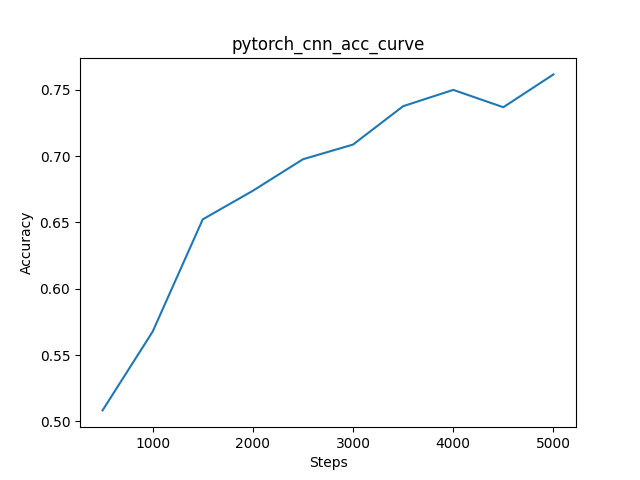
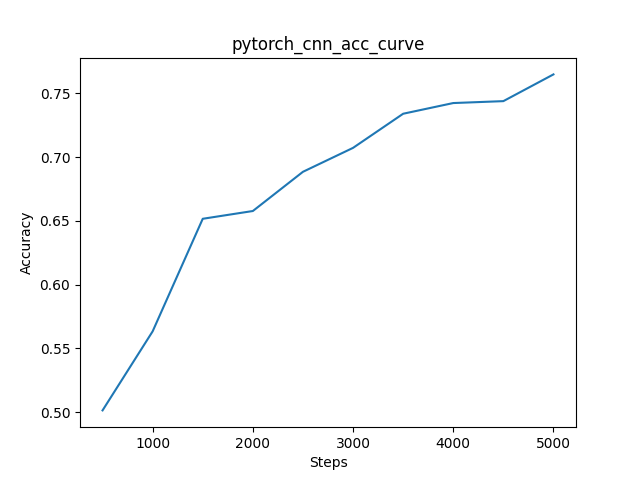
change cnn last layer

diff --git a/1mlp_cnn/convnet_pytorch.py b/1mlp_cnn/convnet_pytorch.py
@@ -45,56 +45,58 @@ class ConvNet(nn.Module):
           nn.Conv2d(64, 64, 3, 1, 1)
         )
 
-        self.PreAct_2_a = nn.Sequential(
+        self.PreAct_2 = nn.Sequential(
           nn.BatchNorm2d(128),
           nn.ReLU(),
           nn.Conv2d(128, 128, 3, 1, 1)
         )
 
-        self.PreAct_2_b = nn.Sequential(
-          nn.BatchNorm2d(128),
-          nn.ReLU(),
-          nn.Conv2d(128, 128, 3, 1, 1)
-        )
+        # self.PreAct_2_b = nn.Sequential(
+        #   nn.BatchNorm2d(128),
+        #   nn.ReLU(),
+        #   nn.Conv2d(128, 128, 3, 1, 1)
+        # )
 
-        self.PreAct_3_a = nn.Sequential(
+        self.PreAct_3 = nn.Sequential(
           nn.BatchNorm2d(256),
           nn.ReLU(),
           nn.Conv2d(256, 256, 3, 1, 1)
         )
 
-        self.PreAct_3_b = nn.Sequential(
-          nn.BatchNorm2d(256),
-          nn.ReLU(),
-          nn.Conv2d(256, 256, 3, 1, 1)
-        )
+        # self.PreAct_3_b = nn.Sequential(
+        #   nn.BatchNorm2d(256),
+        #   nn.ReLU(),
+        #   nn.Conv2d(256, 256, 3, 1, 1)
+        # )
 
-        self.PreAct_4_a = nn.Sequential(
+        self.PreAct_4 = nn.Sequential(
           nn.BatchNorm2d(512),
           nn.ReLU(),
           nn.Conv2d(512, 512, 3, 1, 1)
         )
 
-        self.PreAct_4_b = nn.Sequential(
+        # self.PreAct_4_b = nn.Sequential(
+        #   nn.BatchNorm2d(512),
+        #   nn.ReLU(),
+        #   nn.Conv2d(512, 512, 3, 1, 1)
+        # )
+
+        self.PreAct_5 = nn.Sequential(
           nn.BatchNorm2d(512),
           nn.ReLU(),
           nn.Conv2d(512, 512, 3, 1, 1)
         )
 
-        self.PreAct_5_a = nn.Sequential(
-          nn.BatchNorm2d(512),
-          nn.ReLU(),
-          nn.Conv2d(512, 512, 3, 1, 1)
-        )
-
-        self.PreAct_5_b = nn.Sequential(
-          nn.BatchNorm2d(512),
-          nn.ReLU(),
-          nn.Conv2d(512, 512, 3, 1, 1)
-        )
+        # self.PreAct_5_b = nn.Sequential(
+        #   nn.BatchNorm2d(512),
+        #   nn.ReLU(),
+        #   nn.Conv2d(512, 512, 3, 1, 1)
+        # )
 
         self.maxpool = nn.MaxPool2d(3, 2, 1)
+        
         self.linear = nn.Linear(512, n_classes)
+          
         ########################
         # END OF YOUR CODE    #
         #######################
@@ -121,23 +123,24 @@ class ConvNet(nn.Module):
         z_1 = out_0 + self.PreAct_1(out_0)
         out_1 = self.maxpool(self.conv_1(z_1))
         
-        z_2_a = out_1 + self.PreAct_2_a(out_1)
-        z_2_b = z_2_a + self.PreAct_2_b(z_2_a)
+        z_2_a = out_1 + self.PreAct_2(out_1)
+        z_2_b = z_2_a + self.PreAct_2(z_2_a)
         out_2 = self.maxpool(self.conv_2(z_2_b))
 
-        z_3_a = out_2 + self.PreAct_3_a(out_2)
-        z_3_b = z_3_a + self.PreAct_3_b(z_3_a)
+        z_3_a = out_2 + self.PreAct_3(out_2)
+        z_3_b = z_3_a + self.PreAct_3(z_3_a)
         out_3 = self.maxpool(self.conv_3(z_3_b))
 
-        z_4_a = out_3 + self.PreAct_4_a(out_3)
-        z_4_b = z_4_a + self.PreAct_4_b(z_4_a)
+        z_4_a = out_3 + self.PreAct_4(out_3)
+        z_4_b = z_4_a + self.PreAct_4(z_4_a)
         out_4 = self.maxpool(z_4_b)
 
-        z_5_a = out_4 + self.PreAct_5_a(out_4)
-        z_5_b = z_5_a + self.PreAct_5_b(z_5_a)
+        z_5_a = out_4 + self.PreAct_5(out_4)
+        z_5_b = z_5_a + self.PreAct_5(z_5_a)
         out_5 = self.maxpool(z_5_b)
-
-        out_5 = out_5.view(-1, 512)
+        
+        out_5 = nn.ReLU(nn.BatchNorm2d(512))
+        # out_5 = out_5.view(-1, 512)
         out = self.linear(out_5)
 
         ########################

diff --git a/1mlp_cnn/train_convnet_pytorch.py b/1mlp_cnn/train_convnet_pytorch.py
@@ -31,7 +31,6 @@ DATA_DIR_DEFAULT = './cifar10/cifar-10-batches-py'
 
 FLAGS = None
 
-device = torch.device("cuda:0") if torch.cuda.is_available() else torch.device("cpu")
 
 def accuracy(predictions, targets):
     """
@@ -82,7 +81,12 @@ def train():
     ########################
     # PUT YOUR CODE HERE  #
     #######################
+    device = torch.device("cuda:0") if torch.cuda.is_available() else torch.device("cpu")
+    torch.backends.cudnn.determinstic = True
+    torch.backends.cudnn.benchmark = False
+
     # load data
+    torch.backends
     cifar10 = cifar10_utils.get_cifar10(FLAGS.data_dir)
     train_x, train_y = cifar10['train'].next_batch(batch_size= FLAGS.batch_size)
     train_x = torch.from_numpy(train_x).to(device)

diff --git a/1mlp_cnn/mlp_pytorch.py b/1mlp_cnn/mlp_pytorch.py
@@ -46,7 +46,7 @@ class MLP(nn.Module):
           input_size = hidden_size
         
         self.layers.append(nn.Linear(input_size, n_classes))
-        # self.layers.append(nn.Softmax(dim = 1))
+        # We don't need Softmax here because it is combined in nn.CrossEntropyLoss
 
         ########################
         # END OF YOUR CODE    #
